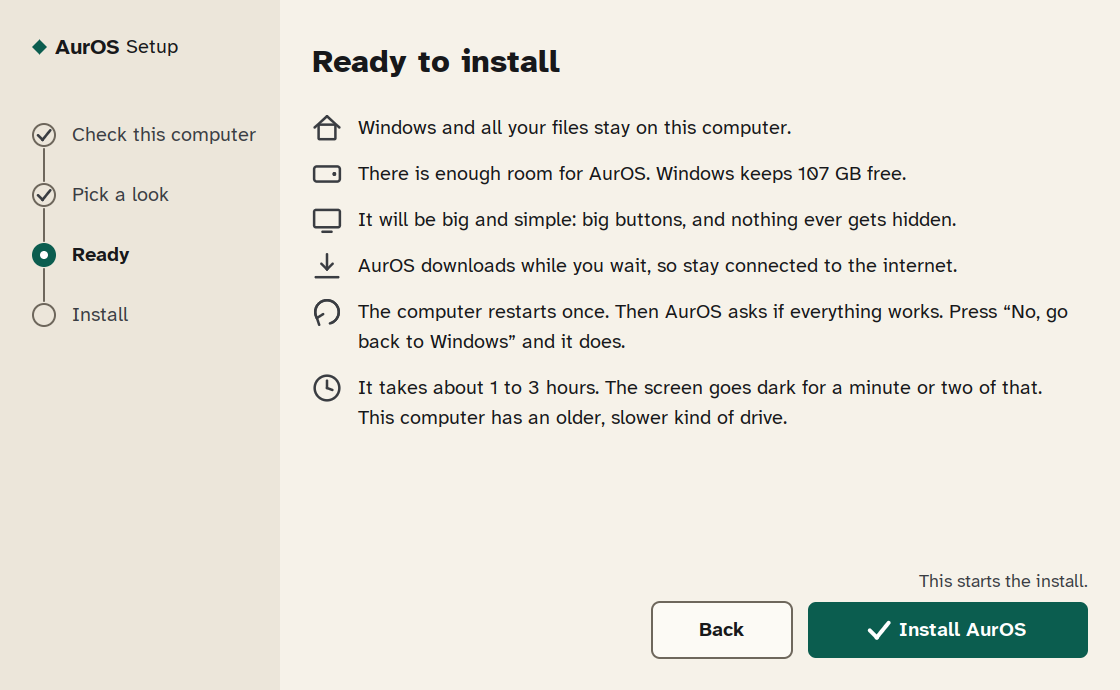
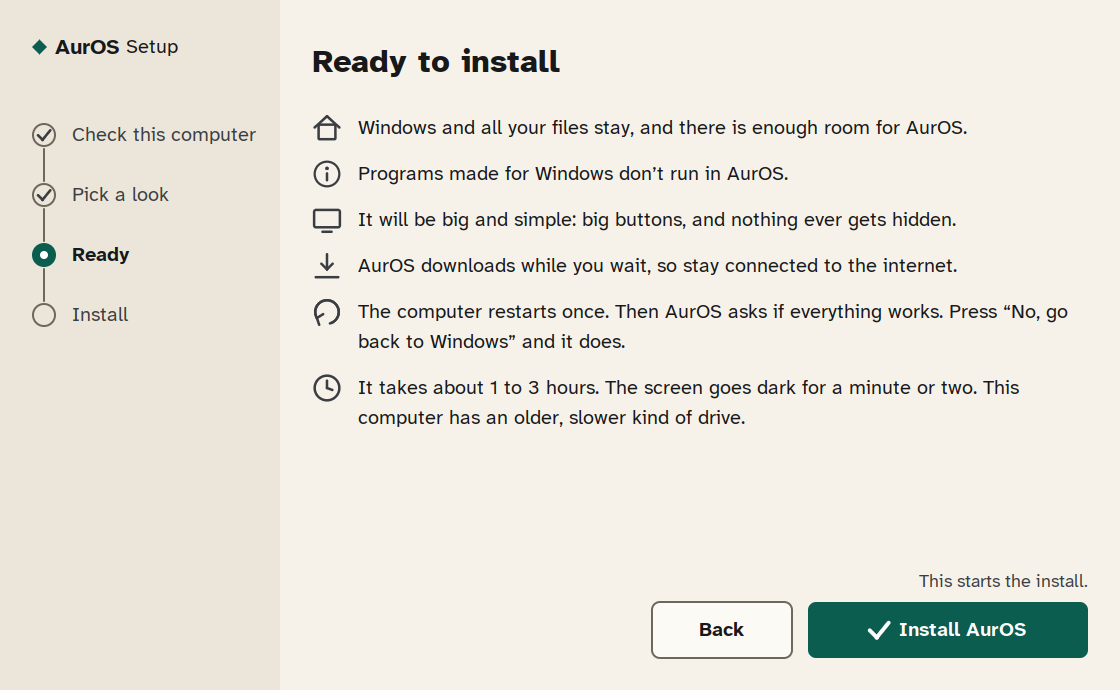
wizard: Ready says Windows programs don't run in AurOS, before she installs (A-07)
EASY rule 9: tell her before, not after. The sentence the website uses, on
its own row; the GB figures go (C-04: she cannot use them), "enough room"
says what she needs. navtest checks the longest Ready page (a locked drive
and Wi-Fi) still fits 1366x768 when the engine's switches exist.

diff --git a/src/aurbridge/wizard.c b/src/aurbridge/wizard.c
@@ -2786,28 +2786,7 @@ static const pf_volume *sys_volume(void)
     return NULL;
 }
 
-/* HOW MUCH AurOS TAKES, AND WHAT WINDOWS KEEPS, the way the install
- * will decide it (shrink_pick_target in src/aurstage/shrink.c): Windows
- * keeps 15% of its drive free, and never less than 20 GiB; AurOS takes
- * what is left of the free space, up to 40 GiB, and never less than it
- * needs. Said in GiB with "GB" on them, which is what Windows' own
- * Explorer shows her. 0 for both when the space was not measured. */
 #define GIB (1024ULL * 1024 * 1024)
-static void space_split(uint64_t *auros, uint64_t *windows_free)
-{
-    *auros = 0; *windows_free = 0;
-    const pf_volume *v = sys_volume();
-    if (!v || !v->shrink_measured) return;
-    uint64_t reclaimable = v->offline_shrinkable;
-    uint64_t reserve = v->size_bytes / 100 * 15;
-    if (reserve < 20 * GIB) reserve = 20 * GIB;
-    uint64_t headroom = reclaimable > reserve ? reclaimable - reserve : 0;
-    uint64_t share = headroom < 40 * GIB ? headroom : 40 * GIB;
-    if (share < PF_AUROS_NEED_BYTES) share = PF_AUROS_NEED_BYTES;
-    if (share > reclaimable) share = reclaimable;
-    *auros = share;
-    *windows_free = reclaimable - share;
-}
 
 /* A tick box she can untick, ticked for her. The whole row is the
  * target, at least 44 px tall. */
@@ -2850,22 +2829,16 @@ static int page_ready(int x, int y, int w)
     /* tighter when the page carries the two optional lines (her Wi-Fi, the
      * drive lock): all eight still fit 1366x768 without scrolling */
     int extra = wifi_offered() + bitlocker_paused_here();
-    int gap = S(g_dense ? 6 : g_short ? 10 : extra ? 9 : 16);
+    int gap = S(g_dense ? 6 : g_short ? 10 : extra > 1 ? 6 : extra ? 9 : 16);
     wchar_t buf[300];
 
     y += page_head(L"Ready to install", NULL, x, y, w) + S(g_dense ? 12 : g_short ? 18 : 28);
 
-    y += glyph_row(G_HOME, L"Windows and all your files stay on this computer.", x, y, narrow) + gap;
-
-    uint64_t take, keep;
-    space_split(&take, &keep);
-    if (take)
-        _snwprintf(buf, 299, L"There is enough room for AurOS. Windows keeps %d GB free.",
-                   (int)(keep / GIB));
-    else
-        _snwprintf(buf, 299, L"There is enough room for AurOS. Windows keeps at least 20 GB free.");
-    buf[299] = 0;
-    y += glyph_row(G_DRIVE, buf, x, y, narrow) + gap;
+    y += glyph_row(G_HOME, L"Windows and all your files stay, and there is enough room for "
+                           L"AurOS.", x, y, narrow) + gap;
+    /* and the one thing that does not come with her (A-07, EASY rule 9: say
+     * it before, not after) */
+    y += glyph_row(G_INFO, L"Programs made for Windows don\u2019t run in AurOS.", x, y, narrow) + gap;
 
     y += glyph_row(G_LOOK, STYLES[g_sel_style].ready, x, y, narrow) + gap;
 
@@ -2889,8 +2862,8 @@ static int page_ready(int x, int y, int w)
     eta_range(&lo, &hi);
     wchar_t rng[64];
     range_words(lo, hi, rng, 64);
-    _snwprintf(buf, 299, L"It takes about %ls. The screen goes dark for a minute or two of "
-                         L"that.%ls", rng,
+    _snwprintf(buf, 299, L"It takes about %ls. The screen goes dark for a minute or "
+                         L"two.%ls", rng,
                disk_is_slow() == 1
                  ? L" This computer has an older, slower kind of drive." : L"");
     buf[299] = 0;
